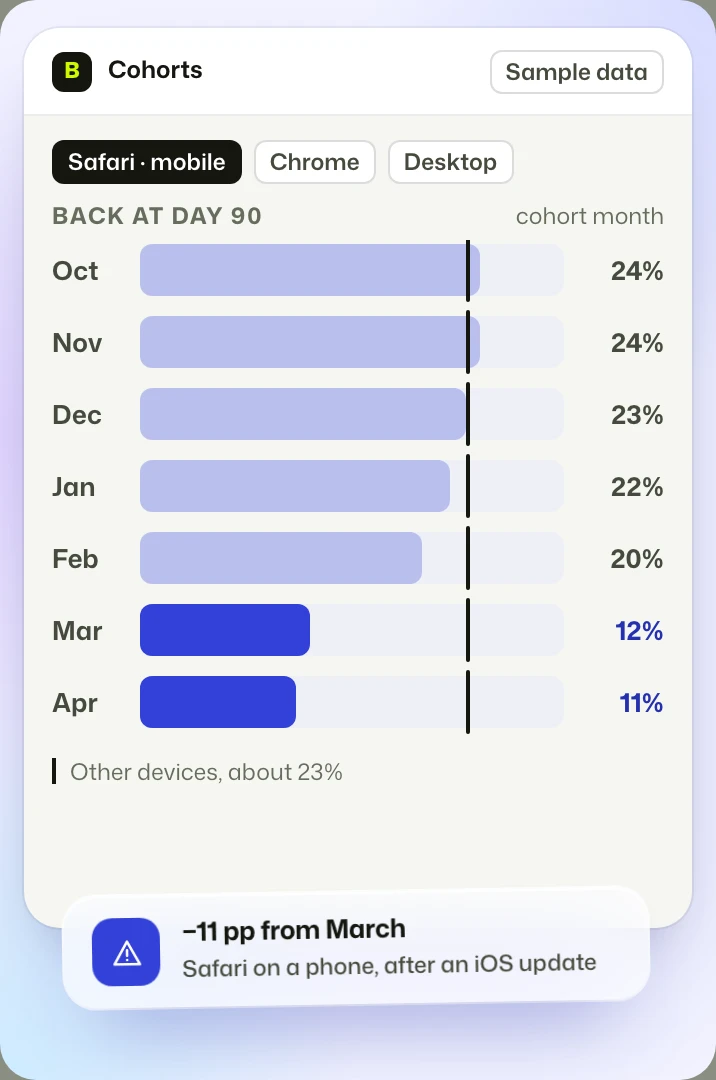
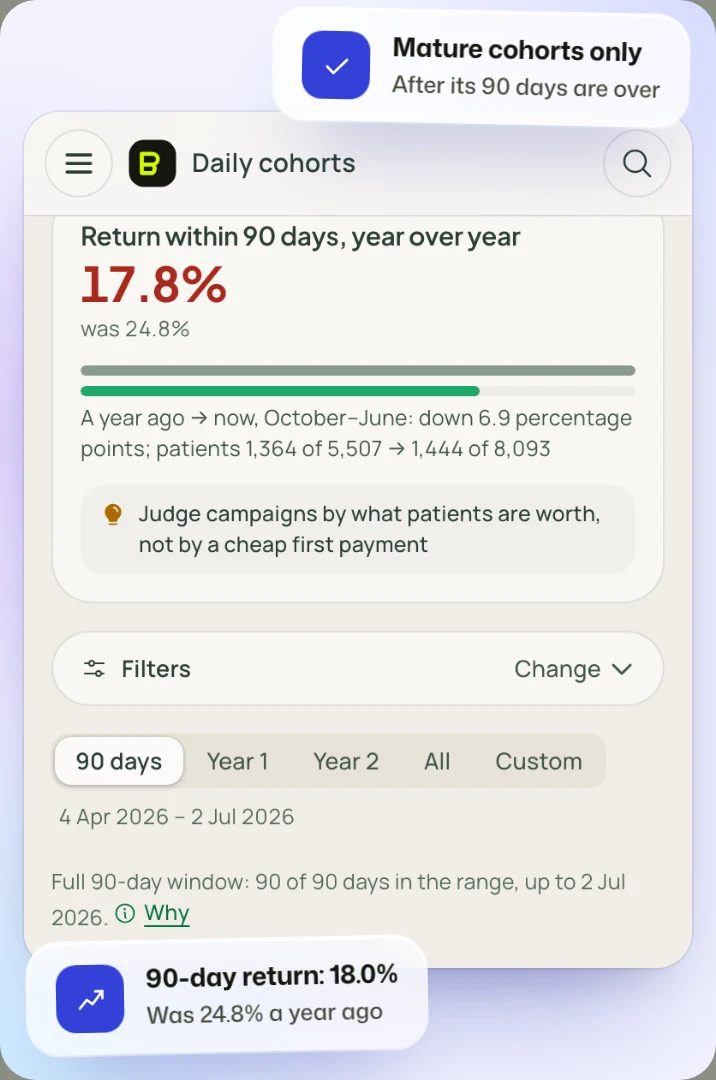
feat(revolution): real captures for Relora, Recruitify, growth analytics (#821)
* feat(revolution): Relora, Recruitify and growth analytics shown as captures of the running tools

Fourteen screens (seven desktop, seven 390 px crops) are now captures of the running
apps in English on a fictional sample scenario, replacing the redrawn mockups. File
names are unchanged. Alt text and the captions that quoted old mockup numbers are
updated to match what the screens show.

* fix(revolution): growth analytics screens use scaled sample figures

All counts and money totals are multiplied by one factor, so rates and per-unit
values stay consistent but no number matches the original task data.

---------

diff --git a/public/revolution/work.html b/public/revolution/work.html
@@ -2877,11 +2877,11 @@ html[data-mode="dark"] .pl3 img.pl3__tm[alt="Apollo"]{filter:invert(1)}
 <div class="v4s__g v4s__g--cases"><article class="v4s__c"><a class="v4s__im" href="work/multichannel-data-engine.html" tabindex="-1" aria-hidden="true"><img src="assets/real/v4-case-multichannel-data-engine.webp" alt="" width="900" height="675" loading="lazy" decoding="async"></a><div class="v4s__tx"><h3><a href="work/multichannel-data-engine.html">Multichannel data engine</a></h3><span class="v4s__st">In use</span><p>One reporting model on top of independent feeds, with dated snapshots and a run state per source.</p><div class="v4s__go"><a class="btn" href="work/multichannel-data-engine.html">Read the case <i>→</i></a></div></div></article><article class="v4s__c"><a class="v4s__im" href="work/form-to-crm-handoff.html" tabindex="-1" aria-hidden="true"><img src="assets/real/v4-case-form-to-crm-handoff.webp" alt="" width="900" height="675" loading="lazy" decoding="async"></a><div class="v4s__tx"><h3><a href="work/form-to-crm-handoff.html">Form-to-CRM handoff</a></h3><span class="v4s__st">In use</span><p>A shared pattern from form field to CRM record, owner and measurement event.</p><div class="v4s__go"><a class="btn" href="work/form-to-crm-handoff.html">Read the case <i>→</i></a></div></div></article><article class="v4s__c"><a class="v4s__im" href="work/website-migration.html" tabindex="-1" aria-hidden="true"><img src="assets/real/v4-case-website-migration.webp" alt="" width="900" height="675" loading="lazy" decoding="async"></a><div class="v4s__tx"><h3><a href="work/website-migration.html">Website migration and redirect QA</a></h3><span class="v4s__st">Documented rollout</span><p>URL inventory, redirect mapping and readiness by page group, released in batches.</p><div class="v4s__go"><a class="btn" href="work/website-migration.html">Read the case <i>→</i></a></div></div></article><article class="v4s__c"><a class="v4s__im" href="work/ecommerce-funnel-diagnosis.html" tabindex="-1" aria-hidden="true"><img src="assets/real/v4-case-ecommerce-funnel-diagnosis.webp" alt="" width="900" height="675" loading="lazy" decoding="async"></a><div class="v4s__tx"><h3><a href="work/ecommerce-funnel-diagnosis.html">Ecommerce funnel diagnosis</a></h3><span class="v4s__st">Delivered</span><p>Where shoppers stop between a product page and an order, and the one step to test first.</p><div class="v4s__go"><a class="btn" href="work/ecommerce-funnel-diagnosis.html">Read the case <i>→</i></a></div></div></article><article class="v4s__c"><a class="v4s__im" href="work/industry-landing-pages.html" tabindex="-1" aria-hidden="true"><img src="assets/real/v4-case-industry-landing-pages.webp" alt="" width="900" height="675" loading="lazy" decoding="async"></a><div class="v4s__tx"><h3><a href="work/industry-landing-pages.html">Industry landing pages and measurement</a></h3><span class="v4s__st">Documented rollout</span><p>Segment landing pages with one structure and one way to measure the next step.</p><div class="v4s__go"><a class="btn" href="work/industry-landing-pages.html">Read the case <i>→</i></a></div></div></article><article class="v4s__c"><a class="v4s__im" href="work/lifecycle-intervention-design.html" tabindex="-1" aria-hidden="true"><img src="assets/real/v4-case-lifecycle-intervention-design.webp" alt="" width="900" height="675" loading="lazy" decoding="async"></a><div class="v4s__tx"><h3><a href="work/lifecycle-intervention-design.html">Lifecycle interventions from customer signals</a></h3><span class="v4s__st">Design proposal</span><p>A design for turning customer signals into reviewed, measurable lifecycle actions.</p><div class="v4s__go"><a class="btn" href="work/lifecycle-intervention-design.html">Read the case <i>→</i></a></div></div></article></div></div></section>
 <!-- /v4-cases -->
 <!-- real-screens -->
-<section class="s hm v4s rs" id="screens" data-theme="dark"><div class="c2"><div class="tl"><div class="hd"><span class="eyebrow chp">Screens</span><h2 data-split="lime">Tools<span>in use</span></h2></div><p class="pp">Screens from tools I build. Woody is shown as it runs, with its sample company. The other screens are redrawn with sample data.</p></div>
+<section class="s hm v4s rs" id="screens" data-theme="dark"><div class="c2"><div class="tl"><div class="hd"><span class="eyebrow chp">Screens</span><h2 data-split="lime">Tools<span>in use</span></h2></div><p class="pp">Screens from tools I build. Every screen is a capture of the running tool, on made-up sample data.</p></div>
 <div class="rs__g"><div class="rs__hd"><h3>Woody</h3><p>Content Studio. Texts in a person's own voice, every claim tied to a source, a named person approving each version.</p></div><ul class="rs__rail" role="region" aria-label="Woody screens" tabindex="0"><li><figure><picture><source media="(max-width:640px)" srcset="assets/real/ui-woody-studio-m.webp" width="716" height="1284"><img src="assets/real/ui-woody-studio.webp" alt="Woody studio: a request typed in, the voice and format chosen, and the texts waiting for a decision" width="1520" height="1080" loading="lazy" decoding="async"></picture><figcaption><b>Studio</b><span>Type a request, pick the voice and the format. The app detects the channel and the setup.</span></figcaption></figure></li><li><figure><picture><source media="(max-width:640px)" srcset="assets/real/ui-woody-review-m.webp" width="716" height="1284"><img src="assets/real/ui-woody-review.webp" alt="Woody review: five texts waiting, with their covers and the person who decides" width="1520" height="1080" loading="lazy" decoding="async"></picture><figcaption><b>Review</b><span>Texts waiting for a decision, grouped by who decides.</span></figcaption></figure></li><li><figure><picture><source media="(max-width:640px)" srcset="assets/real/ui-woody-texts-m.webp" width="716" height="1284"><img src="assets/real/ui-woody-texts.webp" alt="Woody texts: a timeline of texts with covers, status and SEO and GEO scores" width="1520" height="1080" loading="lazy" decoding="async"></picture><figcaption><b>Texts</b><span>Every text with its cover, channel, status and SEO and GEO scores.</span></figcaption></figure></li><li><figure><picture><source media="(max-width:640px)" srcset="assets/real/ui-woody-text-m.webp" width="716" height="1284"><img src="assets/real/ui-woody-text.webp" alt="Woody text page: the stages from written to published, the reviewer and the preview" width="1520" height="1080" loading="lazy" decoding="async"></picture><figcaption><b>One text</b><span>The page of a text: the stage of the review, a named reviewer, edit and preview.</span></figcaption></figure></li><li><figure><picture><source media="(max-width:640px)" srcset="assets/real/ui-woody-strategy-m.webp" width="716" height="1284"><img src="assets/real/ui-woody-strategy.webp" alt="Woody strategy: a content book of 48 pages with counts by stage and the chapters" width="1520" height="1080" loading="lazy" decoding="async"></picture><figcaption><b>Strategy</b><span>A content book of 48 pages, split between two voices, from plan to published.</span></figcaption></figure></li><li><figure><picture><source media="(max-width:640px)" srcset="assets/real/ui-woody-sources-m.webp" width="716" height="1284"><img src="assets/real/ui-woody-sources.webp" alt="Woody sources: the sources of two voices, the samples and what is missing" width="1520" height="1080" loading="lazy" decoding="async"></picture><figcaption><b>Sources</b><span>What each voice may use, and what is still missing before it writes.</span></figcaption></figure></li><li><figure><picture><source media="(max-width:640px)" srcset="assets/real/ui-woody-settings-m.webp" width="716" height="1284"><img src="assets/real/ui-woody-settings.webp" alt="Woody settings: the team and their access, who approves which voice, and the covers" width="1520" height="1080" loading="lazy" decoding="async"></picture><figcaption><b>Settings</b><span>The team, who approves which voice, and the tone and covers of the company.</span></figcaption></figure></li><li><figure><picture><source media="(max-width:640px)" srcset="assets/real/ui-woody-setup-m.webp" width="716" height="1284"><img src="assets/real/ui-woody-setup.webp" alt="Woody setup: the voices step, one for the company and one for a person" width="1520" height="1080" loading="lazy" decoding="async"></picture><figcaption><b>Setup, voices</b><span>One voice per person or brand. Step three of five.</span></figcaption></figure></li><li><figure><picture><source media="(max-width:640px)" srcset="assets/real/ui-woody-look-m.webp" width="716" height="1284"><img src="assets/real/ui-woody-look.webp" alt="Woody setup: the look step with colours, fonts, the logo and the people on the covers" width="1520" height="1080" loading="lazy" decoding="async"></picture><figcaption><b>Setup, look</b><span>Colours, fonts and logo read from the website, and the people on the covers.</span></figcaption></figure></li></ul></div>
-<div class="rs__g"><div class="rs__hd"><h3>Growth analytics</h3><p>Cohorts, funnels and an action plan on mature data. Cohorts that are still open stay grey.</p></div><ul class="rs__rail" role="region" aria-label="Growth analytics screens" tabindex="0"><li><figure><picture><source media="(max-width:640px)" srcset="assets/real/ui-b2c-summary-m.webp" width="716" height="1132"><img src="assets/real/ui-b2c-summary.webp" alt="Growth analytics summary: new patients, 90-day return, per-patient revenue and a cohort line chart" width="1520" height="1000" loading="lazy" decoding="async"></picture><figcaption><b>Summary</b><span>Volume up 43%, 90-day return down 6.6 points. Only cohorts old enough to count are counted.</span></figcaption></figure></li><li><figure><picture><source media="(max-width:640px)" srcset="assets/real/ui-b2c-cohorts-m.webp" width="716" height="1080"><img src="assets/real/ui-b2c-cohorts.webp" alt="Growth analytics cohorts: a heat table of return by monthly cohort" width="1520" height="1000" loading="lazy" decoding="async"></picture><figcaption><b>Cohorts</b><span>Safari on mobile fell to 12% at day 90, 11 points under the others, from the March cohort.</span></figcaption></figure></li><li><figure><picture><source media="(max-width:640px)" srcset="assets/real/ui-b2c-funnel-m.webp" width="716" height="988"><img src="assets/real/ui-b2c-funnel.webp" alt="Growth analytics funnel: bars from product to paid and a phone showing a dead pay button" width="1520" height="1000" loading="lazy" decoding="async"></picture><figcaption><b>Funnel</b><span>36% reach payment, 14% pay on Safari mobile. The pay button does nothing and shows no error.</span></figcaption></figure></li><li><figure><picture><source media="(max-width:640px)" srcset="assets/real/ui-b2c-action-plan-m.webp" width="716" height="1096"><img src="assets/real/ui-b2c-action-plan.webp" alt="Growth analytics action plan: a table of actions with owner, effort, impact and status" width="1520" height="1000" loading="lazy" decoding="async"></picture><figcaption><b>Action plan</b><span>Fix the Safari payment step first: about 1,670 bookings a month. Every action has an owner and an effort.</span></figcaption></figure></li></ul></div>
-<div class="rs__g"><div class="rs__hd"><h3>Relora</h3><p>A relationship tool: who knows whom, and outreach drafts that wait for approval.</p></div><ul class="rs__rail" role="region" aria-label="Relora screens" tabindex="0"><li><figure><picture><source media="(max-width:640px)" srcset="assets/real/ui-relora-graph-m.webp" width="716" height="1040"><img src="assets/real/ui-relora-graph.webp" alt="Relora relationship graph with the shortest path to one contact" width="1520" height="1000" loading="lazy" decoding="async"></picture><figcaption><b>Relationships</b><span>The shortest path to a contact in two steps, through someone who knows them. Nothing is sent without you.</span></figcaption></figure></li><li><figure><picture><source media="(max-width:640px)" srcset="assets/real/ui-relora-brief-m.webp" width="716" height="1120"><img src="assets/real/ui-relora-brief.webp" alt="Relora contact brief: facts, notes, an email draft awaiting approval and a timeline" width="1520" height="1112" loading="lazy" decoding="async"></picture><figcaption><b>Contact brief</b><span>Public facts, private context and an email draft waiting for approval. Private notes stay private.</span></figcaption></figure></li></ul></div>
-<div class="rs__g"><div class="rs__hd"><h3>Recruitify</h3><p>A private build: a job search board with a fit score on every role.</p></div><ul class="rs__rail" role="region" aria-label="Recruitify screens" tabindex="0"><li><figure><picture><source media="(max-width:640px)" srcset="assets/real/ui-recruit-board-m.webp" width="716" height="1360"><img src="assets/real/ui-recruit-board.webp" alt="Recruitify board: roles in columns from saved to offer with fit scores" width="1520" height="1224" loading="lazy" decoding="async"></picture><figcaption><b>Board</b><span>Roles by stage, each with a fit score. Two interviews this week.</span></figcaption></figure></li></ul></div>
+<div class="rs__g"><div class="rs__hd"><h3>Growth analytics</h3><p>Cohorts, funnels and an action plan on mature data. Cohorts that are still open stay grey.</p></div><ul class="rs__rail" role="region" aria-label="Growth analytics screens" tabindex="0"><li><figure><picture><source media="(max-width:640px)" srcset="assets/real/ui-b2c-summary-m.webp" width="716" height="1132"><img src="assets/real/ui-b2c-summary.webp" alt="Growth analytics summary: new patients, 90-day return and result per patient with trend lines, on synthetic sample data" width="1520" height="1000" loading="lazy" decoding="async"></picture><figcaption><b>Summary</b><span>Volume up 52%, 90-day return down 6.8 points. Only cohorts old enough to count are counted.</span></figcaption></figure></li><li><figure><picture><source media="(max-width:640px)" srcset="assets/real/ui-b2c-cohorts-m.webp" width="716" height="1080"><img src="assets/real/ui-b2c-cohorts.webp" alt="Growth analytics cohort table: a heat table of return by daily cohort and window, on synthetic sample data" width="1520" height="1000" loading="lazy" decoding="async"></picture><figcaption><b>Cohorts</b><span>Return by daily cohort and window, from 1 to 180 days. Only cohorts with a full window count.</span></figcaption></figure></li><li><figure><picture><source media="(max-width:640px)" srcset="assets/real/ui-b2c-funnel-m.webp" width="716" height="988"><img src="assets/real/ui-b2c-funnel.webp" alt="Growth analytics funnels: the largest drop-off between visit and payment and the funnel steps, on synthetic sample data" width="1520" height="1000" loading="lazy" decoding="async"></picture><figcaption><b>Funnel</b><span>68% of the drop-off sits at service choice. 11.6% of sessions end in a paid consultation.</span></figcaption></figure></li><li><figure><picture><source media="(max-width:640px)" srcset="assets/real/ui-b2c-action-plan-m.webp" width="716" height="1096"><img src="assets/real/ui-b2c-action-plan.webp" alt="Growth analytics action plan: six decisions with start, deadline and owner, on synthetic sample data" width="1520" height="1000" loading="lazy" decoding="async"></picture><figcaption><b>Action plan</b><span>Six decisions, most urgent first. Every action has a start, a deadline and an owner.</span></figcaption></figure></li></ul></div>
+<div class="rs__g"><div class="rs__hd"><h3>Relora</h3><p>A relationship tool: who knows whom, and outreach drafts that wait for approval.</p></div><ul class="rs__rail" role="region" aria-label="Relora screens" tabindex="0"><li><figure><picture><source media="(max-width:640px)" srcset="assets/real/ui-relora-graph-m.webp" width="716" height="1040"><img src="assets/real/ui-relora-graph.webp" alt="Relora relationship map: a selected contact grouped under organizations with their topics, on a fictional sample scenario" width="1520" height="1000" loading="lazy" decoding="async"></picture><figcaption><b>Relationships</b><span>A contact grouped under an organization, with their topics. Nothing is sent without you.</span></figcaption></figure></li><li><figure><picture><source media="(max-width:640px)" srcset="assets/real/ui-relora-brief-m.webp" width="716" height="1120"><img src="assets/real/ui-relora-brief.webp" alt="Relora dashboard: five contacts, a brief marked ready, and outreach progress from context to reply, on a fictional sample scenario" width="1520" height="1112" loading="lazy" decoding="async"></picture><figcaption><b>Contact brief</b><span>Contacts, a brief marked ready and the outreach steps from context to reply. Nothing is sent without approval.</span></figcaption></figure></li></ul></div>
+<div class="rs__g"><div class="rs__hd"><h3>Recruitify</h3><p>A private build: a job search board with a fit score on every role.</p></div><ul class="rs__rail" role="region" aria-label="Recruitify screens" tabindex="0"><li><figure><picture><source media="(max-width:640px)" srcset="assets/real/ui-recruit-board-m.webp" width="716" height="1360"><img src="assets/real/ui-recruit-board.webp" alt="Recruitify pipeline board: roles in four stage columns from screening to offer, each with a fit score, on fictional sample data" width="1520" height="1224" loading="lazy" decoding="async"></picture><figcaption><b>Board</b><span>Roles by stage, each with a fit score. Two interviews this week.</span></figcaption></figure></li></ul></div>
 </div></section>
 <!-- /real-screens -->
 <section class="s cl" data-theme="dark"><svg class="lau" viewBox="0 0 48 30" aria-hidden="true"><path d="M20 27C10 25 4 15 7 2"/><path d="M28 27C38 25 44 15 41 2"/><ellipse cx="13" cy="27.5" rx="4" ry="1.6" transform="rotate(20 13 27.5)"/><ellipse cx="35" cy="27.5" rx="4" ry="1.6" transform="rotate(-20 35 27.5)"/><ellipse cx="7.5" cy="22.5" rx="4" ry="1.6" transform="rotate(45 7.5 22.5)"/><ellipse cx="40.5" cy="22.5" rx="4" ry="1.6" transform="rotate(-45 40.5 22.5)"/><ellipse cx="3.8" cy="16.5" rx="4" ry="1.6" transform="rotate(75 3.8 16.5)"/><ellipse cx="44.2" cy="16.5" rx="4" ry="1.6" transform="rotate(-75 44.2 16.5)"/><ellipse cx="2.6" cy="10" rx="4" ry="1.6" transform="rotate(95 2.6 10)"/><ellipse cx="45.4" cy="10" rx="4" ry="1.6" transform="rotate(-95 45.4 10)"/><ellipse cx="3.6" cy="3.6" rx="4" ry="1.6" transform="rotate(118 3.6 3.6)"/><ellipse cx="44.4" cy="3.6" rx="4" ry="1.6" transform="rotate(-118 44.4 3.6)"/><ellipse cx="11.6" cy="19.6" rx="3" ry="1.25" transform="rotate(62 11.6 19.6)"/><ellipse cx="36.4" cy="19.6" rx="3" ry="1.25" transform="rotate(-62 36.4 19.6)"/><ellipse cx="8.9" cy="13.4" rx="3" ry="1.25" transform="rotate(86 8.9 13.4)"/><ellipse cx="39.1" cy="13.4" rx="3" ry="1.25" transform="rotate(-86 39.1 13.4)"/><ellipse cx="9" cy="7.2" rx="3" ry="1.25" transform="rotate(112 9 7.2)"/><ellipse cx="39" cy="7.2" rx="3" ry="1.25" transform="rotate(-112 39 7.2)"/></svg><p>Live demos, open source repos, MVPs and case studies</p><a class="btn" href="gtm.html#case">Read a case <i>→</i></a></section><div class="sx" id="sx" hidden role="dialog" aria-modal="true" aria-label="Search 16 projects"><svg class="contours" data-seed="88" aria-hidden="true"></svg><div class="sx__l"><label class="sx__q"><svg viewBox="0 0 24 24" aria-hidden="true"><circle cx="10.5" cy="10.5" r="6.5"/><path d="M15.5 15.5 21 21"/></svg><input id="sxq" type="search" placeholder="Search" autocomplete="off" aria-label="Search 16 projects"></label><div class="sx__f" role="group" aria-label="Category"><button class="on" data-f="*">All<sup>16</sup></button><button data-f="AI GTM">AI GTM<sup>6</sup></button><button data-f="Growth architecture">Growth architecture<sup>2</sup></button><button data-f="Products">Products<sup>8</sup></button></div><ol class="sx__rs" data-lenis-prevent><li class="sx__r" data-c="Products" data-img="assets/career/wt-academy.webp" data-k="Products" data-d="Most AI training sells tool names, not the operating process behind them." data-q="academy  most ai training sells tool names, not the operating process behind them. products"><a href="https://wojciech.io/apps/academy/"><span>Academy</span><sup>Products</sup></a></li><li class="sx__r" data-c="AI GTM" data-img="assets/tools/adsai-dash.webp" data-k="AI GTM · Live demo" data-d="Ad optimization work was split between reports, intuition, and repeated checks." data-q="adsai  ad optimization work was split between reports, intuition, and repeated checks. ai gtm"><a href="#book"><span>AdsAI</span><sup>AI GTM</sup></a></li><li class="sx__r" data-c="Products" data-img="assets/tools/woody-studio.webp" data-k="Products · Internal tool" data-d="Drafts lived in documents and style lived in people's heads. Nobody could say where a text came from or who had signed it off." data-q="content studio  drafts lived in documents and style lived in people's heads. nobody could say where a text came from or who had signed it off. products"><a href="https://wojciech.io/insights/ai-content-studio-approval-workflow/"><span>Content Studio</span><sup>Products</sup></a></li><li class="sx__r" data-c="Growth architecture" data-img="assets/career/wt-getresponse.webp" data-k="Growth architecture" data-d="Marketing was a series of one-off campaigns with no operating model underneath. CRM held contact data but no lifecycle logic. SEO was ad hoc. Winback didn't exist. There was no single place that showed where revenue came from and what to do next." data-q="full-stack growth system mid-market b2b saas marketing was a series of one-off campaigns with no operating model underneath. crm held contact data but no lifecycle logic. seo was ad hoc. winback didn't exist. there was no single place that showed where revenue came from and what to do next. growth architecture"><a href="marketing.html#case"><span>Full-stack growth system</span><sup>Growth architecture</sup></a></li><li class="sx__r" data-c="Products" data-img="assets/tools/growthhub-b.webp" data-k="Products · Live demo" data-d="Growth signals scattered across GA4, the CRM, and ad platforms." data-q="growthhub  growth signals scattered across ga4, the crm, and ad platforms. products"><a href="#book"><span>GrowthHub</span><sup>Products</sup></a></li><li class="sx__r" data-c="AI GTM" data-img="assets/tools/starter-a.webp" data-k="AI GTM · Open source" data-d="Operators wanted AI-native GTM workflows but had no structured starting point: just blank Claude sessions and scattered prompt tips." data-q="claude code gtm agent starter pack  operators wanted ai-native gtm workflows but had no structured starting point: just blank claude sessions and scattered prompt tips. ai gtm"><a href="https://github.com/wojciechluszczynski/gtm-agent-repo"><span>Claude Code GTM Agent Starter Pack</span><sup>AI GTM</sup></a></li><li class="sx__r" data-c="Products" data-img="assets/tools/recruitify-a.webp" data-k="Products · Private build" data-d="Job search work fragments fast: jobs scattered across tabs, applications half-tracked in spreadsheets, no signal on priorities or pipeline health." data-q="recruitify  job search work fragments fast: jobs scattered across tabs, applications half-tracked in spreadsheets, no signal on priorities or pipeline health. products"><a href="https://wojciech.io/work/"><span>Recruitify</span><sup>Products</sup></a></li><li class="sx__r" data-c="Products" data-img="assets/career/wt-kade.webp" data-k="Products" data-d="Bookmarks pile up with no signal for which link is worth reopening." data-q="kade  bookmarks pile up with no signal for which link is worth reopening. products"><a href="https://wojciech.io/apps/kade/"><span>Kade</span><sup>Products</sup></a></li><li class="sx__r" data-c="Products" data-img="assets/tools/camper-live.webp" data-k="Products · Live demo" data-d="Rental demand needed a clearer path from browsing to booking." data-q="camper rental booking engine  rental demand needed a clearer path from browsing to booking. products"><a href="#book"><span>Camper Rental Booking Engine</span><sup>Products</sup></a></li><li class="sx__r" data-c="AI GTM" data-img="assets/career/wt-webwave.webp" data-k="AI GTM" data-d="Mac cleanup apps delete silently, use scare tactics, and give no audit trail. Users either ignore the problem or hand control to a black box." data-q="klaro local-first mac care mac cleanup apps delete silently, use scare tactics, and give no audit trail. users either ignore the problem or hand control to a black box. ai gtm"><a href="https://wojciech.io/work/"><span>Klaro</span><sup>AI GTM</sup></a></li><li class="sx__r" data-c="Products" data-img="assets/career/wt-miniapps.webp" data-k="Products" data-d="Recurring operational gaps that SaaS subscriptions were too heavy to fill: each problem needed a focused tool, not a platform." data-q="działka+, paczka+, resume+  recurring operational gaps that saas subscriptions were too heavy to fill: each problem needed a focused tool, not a platform. products"><a href="https://wojciech.io/work/"><span>Działka+, Paczka+, Resume+</span><sup>Products</sup></a></li><li class="sx__r" data-c="AI GTM" data-img="assets/tools/notch-a.webp" data-k="AI GTM · Product" data-d="Notes sit away from the camera, which breaks eye contact during calls and demos." data-q="notchcue  notes sit away from the camera, which breaks eye contact during calls and demos. ai gtm"><a href="https://wojciech.io/apps/notch/"><span>NotchCue</span><sup>AI GTM</sup></a></li><li class="sx__r" data-c="AI GTM" data-img="assets/career/wt-sentione.webp" data-k="AI GTM" data-d="A B2B SaaS team was running outbound from a mix of manually-enriched spreadsheets, Apollo exports, and instinct. Coverage was inconsistent, personalization was template-based, and the cycle from list to sent sequence was two to three weeks." data-q="outbound intelligence system  a b2b saas team was running outbound from a mix of manually-enriched spreadsheets, apollo exports, and instinct. coverage was inconsistent, personalization was template-based, and the cycle from list to sent sequence was two to three weeks. ai gtm"><a href="https://wojciech.io/insights/claude-code-vs-clay"><span>Outbound intelligence system</span><sup>AI GTM</sup></a></li><li class="sx__r" data-c="Products" data-img="assets/tools/relora-home.webp" data-k="Products · Live demo" data-d="Important owner conversations lived across inboxes, notes, and memory." data-q="relora  important owner conversations lived across inboxes, notes, and memory. products"><a href="#book"><span>Relora</span><sup>Products</sup></a></li><li class="sx__r" data-c="Growth architecture" data-img="assets/career/wt-symfonia.webp" data-k="Growth architecture" data-d="The company had strong product-market fit in a tight vertical but a commercial model built for the founder's network, not for scale. Pipeline was unpredictable, ICP was broadly defined, and every deal above a threshold required founder involvement to close." data-q="revenue architecture series a vertical saas the company had strong product-market fit in a tight vertical but a commercial model built for the founder's network, not for scale. pipeline was unpredictable, icp was broadly defined, and every deal above a threshold required founder involvement to close. growth architecture"><a href="https://wojciech.io/work/"><span>Revenue architecture</span><sup>Growth architecture</sup></a></li><li class="sx__r" data-c="AI GTM" data-img="assets/career/wt-coach.webp" data-k="AI GTM" data-d="Existing fitness apps either require subscriptions, send health data to remote servers, or fragment the experience across devices without a single coherent plan." data-q="wojciech coach apple-native running coach existing fitness apps either require subscriptions, send health data to remote servers, or fragment the experience across devices without a single coherent plan. ai gtm"><a href="https://wojciech.io/work/"><span>Wojciech Coach</span><sup>AI GTM</sup></a></li></ol><p class="sx__n" aria-live="polite"></p></div><figure class="sx__pv"><img src="" alt=""><figcaption><small></small><p></p><a class="btn" href="#">Open <i>↗</i></a></figcaption></figure><button class="sx__x" type="button" aria-label="Close search"><i></i><i></i></button></div><section class="s ft" id="book" data-theme="lime">

diff --git a/public/revolution/growth.html b/public/revolution/growth.html
@@ -2876,10 +2876,10 @@ html[data-mode="dark"] .pl3 img.pl3__tm[alt="Apollo"]{filter:invert(1)}
 </div></section>
 
 <section class="s gr-rw" data-theme="light"><div class="gr-w">
-  <article class="gr-row" data-m="rise"><a class="gr-row__s" href="newsletter.html"><picture><source media="(max-width:640px)" srcset="assets/real/ui-b2c-action-plan-m.webp" width="716" height="1096"><img src="assets/real/ui-b2c-action-plan.webp" alt="Action plan: five actions with owner, effort and impact, the Safari payment step first" width="1520" height="1000" loading="lazy" decoding="async"></picture><span>Get the newsletter ↗</span></a>
+  <article class="gr-row" data-m="rise"><a class="gr-row__s" href="newsletter.html"><picture><source media="(max-width:640px)" srcset="assets/real/ui-b2c-action-plan-m.webp" width="716" height="1096"><img src="assets/real/ui-b2c-action-plan.webp" alt="Growth analytics action plan: six decisions with start, deadline and owner, on synthetic sample data" width="1520" height="1000" loading="lazy" decoding="async"></picture><span>Get the newsletter ↗</span></a>
     <div><span class="gr-row__n">01</span><h3>Weekly experiments</h3><p>A ranked backlog, one test a week, results read in revenue.</p>
       <ul><li>A backlog ranked by impact, confidence and ease</li><li>One test a week</li><li>Results read in revenue</li></ul><p class="gr-tl"><small>Built with</small><span>PostHog</span><span>GA4</span></p></div></article>
-  <article class="gr-row" data-m="rise"><a class="gr-row__s" href="#book"><picture><source media="(max-width:640px)" srcset="assets/real/ui-b2c-cohorts-m.webp" width="716" height="1080"><img src="assets/real/ui-b2c-cohorts.webp" alt="Return by monthly cohort at day 0, 7, 30, 60 and 90, with the Safari mobile cohort dropping to 12%" width="1520" height="1000" loading="lazy" decoding="async"></picture><span>Book a call about this ↗</span></a>
+  <article class="gr-row" data-m="rise"><a class="gr-row__s" href="#book"><picture><source media="(max-width:640px)" srcset="assets/real/ui-b2c-cohorts-m.webp" width="716" height="1080"><img src="assets/real/ui-b2c-cohorts.webp" alt="Growth analytics cohort table: a heat table of return by daily cohort and window, on synthetic sample data" width="1520" height="1000" loading="lazy" decoding="async"></picture><span>Book a call about this ↗</span></a>
     <div><span class="gr-row__n">02</span><h3>Activation and retention</h3><p>I define the activation event, track it in PostHog and fix the step where users drop.</p>
       <ul><li>The activation event, defined and tracked</li><li>Weekly cohorts in PostHog</li><li>Fixes for the step where users drop</li></ul><p class="gr-tl"><small>Built with</small><span>Supabase</span><span>PostHog</span></p></div></article>
   <article class="gr-row" data-m="rise"><a class="gr-row__s" href="work/lifecycle-intervention-design.html"><img src="assets/real/ui-scenarios.webp" alt="Lifecycle scenarios: onboarding stalled, usage drops, billing issue, each with an owner" width="640" height="420" loading="lazy" decoding="async"><span>Case · Lifecycle intervention design ↗</span></a>
